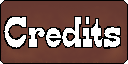
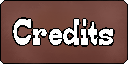
added functional how to play/credits signs

Changed region(s): [[0.0, 0.25, 0.9688, 0.7812], [0.25, 0.9688, 0.3125, 1.0], [0.875, 0.0, 0.9062, 0.0312]]

diff --git a/src/Scenes/Menu.js b/src/Scenes/Menu.js
@@ -32,11 +32,26 @@ class Menu extends Phaser.Scene {
             frameWidth: 128,
             frameHeight: 64
         })
+        this.load.spritesheet('creditsSign', 'CreditsSign.png', {
+            frameWidth: 128,
+            frameHeight: 64
+        })
+        this.load.spritesheet('howToPlaySign', 'HowToPLaySign.png', {
+            frameWidth: 128,
+            frameHeight: 64
+        })
+        this.load.spritesheet('howToSign', 'HowToSign.png', {
+            frameWidth: 480,
+            frameHeight: 360
+        })
         this.load.spritesheet('playSignFragments', 'playSignFragments.png', {
             frameWidth: 64,
             frameHeight: 64,
         })
         this.load.spritesheet('replayButton', 'replayButton.png', {
+            frameWidth: 16
+        })
+        this.load.spritesheet('quitButton', 'quitButton.png', {
             frameWidth: 16
         })
         this.load.spritesheet('cactus', 'cactus.png', {
@@ -134,7 +149,10 @@ class Menu extends Phaser.Scene {
         this.physics.add.collider(this.player, this.groundBody)
 
         //add menuSigns
-        this.playSign = new MenuSign(this, game.config.width * 0.7, game.config.height * 0.7, 'playSign')
+        this.playSign = new MenuSign(this, game.config.width * 0.8, game.config.height * 0.7, 'playSign')
+        this.howToSign = new MenuSign(this, game.config.width * 0.5, game.config.height * 0.4, 'howToPlaySign')
+        this.creditsSign = new MenuSign(this, game.config.width * 0.15, game.config.height * 0.1, 'creditsSign')
+
 
     }
 

diff --git a/src/Prefabs/Player.js b/src/Prefabs/Player.js
@@ -48,7 +48,6 @@ class Player extends Phaser.Physics.Arcade.Sprite {
         this.parentScene.gunFSM = new StateMachine('aiming', {
             aiming: new AimingState(),
             shooting: new ShootingState(),
-            reloading: new ReloadingState(),
             deadGun: new DeadGunState(),
         }, [scene, this.playerGun])
 
@@ -77,7 +76,7 @@ class GameOverState extends State {
         scene.movementFSM.transition('dead')
 
         scene.add.image( game.config.width / 2, game.config.height / 2, 'gravestone')
-        scene.replayButton = new ReplayButton(scene, game.config.width / 2, game.config.height * 4/ 5)
+        scene.replayButton = new ReplayButton(scene, game.config.width / 2, game.config.height * 4/ 5, 'replayButton')
     }
     execute(scene, player) {
         player.playerGun.x = player.body.x -3
@@ -244,15 +243,7 @@ class ShootingState extends State {
         })
     }
 }
-class ReloadingState extends State {
-    //may get axed depending on how much time is left
-    enter(scene, playerGun) {
 
-    }
-    execute(scene, playerGun) {
-
-    }
-}
 
 class DeadPlayerState extends State {
     //empty state, no more control over gun

diff --git a/src/Prefabs/ReplayButton.js b/src/Prefabs/ReplayButton.js
@@ -1,6 +1,6 @@
 class ReplayButton extends Phaser.Physics.Arcade.Sprite {
-    constructor(scene, x, y) {
-        super(scene, x, y, 'replayButton')
+    constructor(scene, x, y, key) {
+        super(scene, x, y, key)
 
         this.parentScene = scene
         this.parentScene.add.existing(this)
@@ -11,7 +11,10 @@ class ReplayButton extends Phaser.Physics.Arcade.Sprite {
         this.setInteractive()
 
         this.on('pointerdown', () => {
-            this.parentScene.bgMusic.destroy()
+            console.log(this.parentScene)
+            if (this.parentScene.scene.key == "playScene"){
+                this.parentScene.bgMusic.destroy()
+            }
             this.parentScene.scene.start('menuScene')
         })
 

diff --git a/src/Prefabs/MenuSign.js b/src/Prefabs/MenuSign.js
@@ -17,8 +17,15 @@ class MenuSign extends Phaser.Physics.Arcade.Sprite {
 
         scene.physics.add.collider(this, scene.bulletColliderGroup, (body1,body2) =>{
             body2.destroy()
-            this.explode()
-
+            if (this.key == 'playSign') {
+                this.explode()
+            }
+            else if (this.key == 'howToPlaySign') {
+                this.howToDump = new InfoDump(scene, game.config.width / 2, game.config.height/2, 'howToSign')
+            }
+            else {
+                this.creditsDump = new InfoDump(scene, game.config.width / 2, game.config.height/2, 'creditsSign')
+            }
         })
     }
     explode(){

diff --git a/src/Prefabs/InfoDump.js b/src/Prefabs/InfoDump.js
@@ -1,0 +1,14 @@
+class InfoDump extends Phaser.Physics.Arcade.Sprite {
+    constructor(scene, x, y, key) {
+        super(scene, x, y, key)
+
+        this.parentScene = scene
+        this.parentScene.add.existing(this)
+        this.parentScene.physics.add.existing(this)
+
+        this.body.setImmovable()
+        this.body.allowGravity = false
+
+        this.exitButton = new ReplayButton(scene, game.config.width * 8/9, game.config.height * 1/9, 'quitButton')
+    }
+}

diff --git a/index.html b/index.html
@@ -14,6 +14,7 @@
     <script src="./src/Prefabs/Crow.js"></script>
     <script src="./src/Prefabs/MenuSign.js"></script>
     <script src="./src/Prefabs/ReplayButton.js"></script>
+    <script src="./src/Prefabs/InfoDump.js"></script>
     <script src="./src/Prefabs/Obstacle.js"></script>
     <script src="./src/Prefabs/Bullet.js"></script>
 
